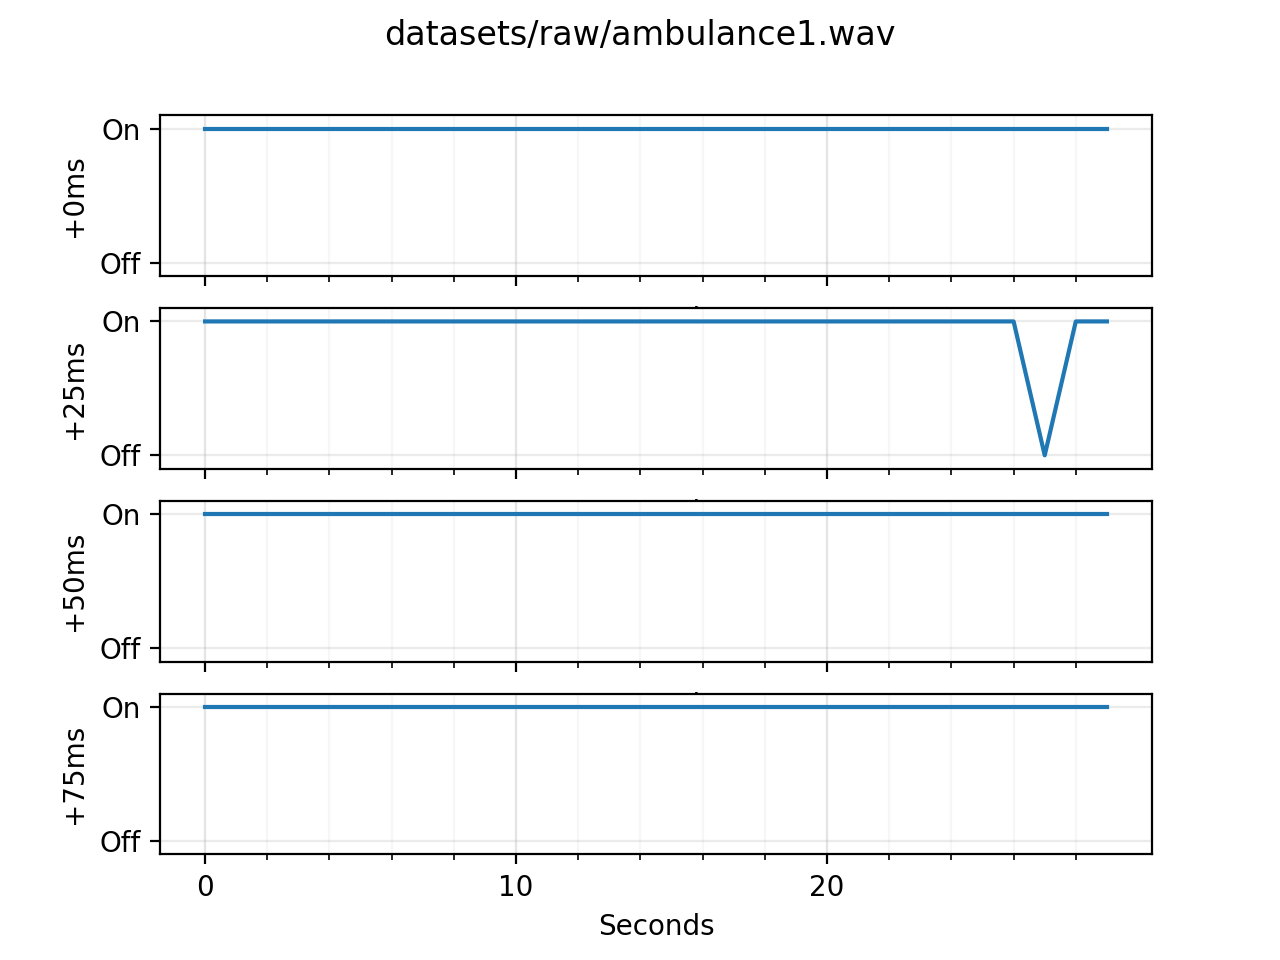
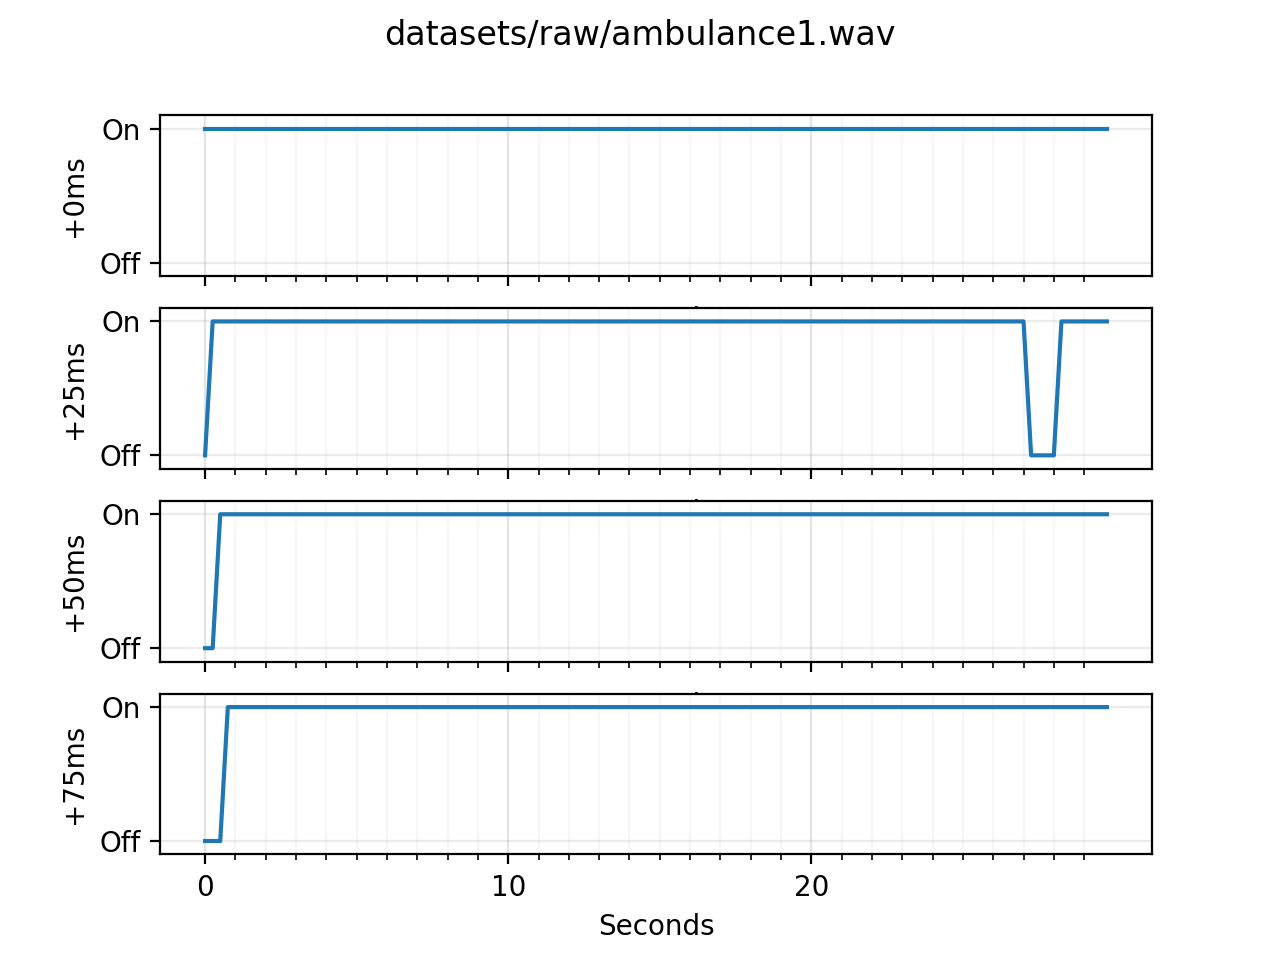
Rework the plots

diff --git a/viz-audio.py b/viz-audio.py
@@ -27,7 +27,7 @@ if __name__ == '__main__':
         filename, _ = path.splitext(path.basename(file))
         rate, sample = wavfile.read(file)
 
-        detection = np.zeros((4, sample.size//rate+1))
+        detection = np.zeros((4, (sample.size//rate+1)*4))
         for sec_idx, start in enumerate(range(0, sample.size, rate//4)):
             chunk = np.zeros(rate)
             chunk[0:min(sample.size-start, rate)] = sample[start:min(sample.size, start+rate)]
@@ -41,13 +41,13 @@ if __name__ == '__main__':
             else:
                 X = np.reshape(power_spectrogram, (1, -1))
 
-            detection[sec_idx%4, sec_idx//4] = classifier.predict(X)
+            detection[sec_idx%4, (sec_idx):(sec_idx)+4] = classifier.predict(X)
 
         # Plot!
         fig = plt.figure()
         plt.suptitle(file)
-        major_ticks = np.arange(0, detection.shape[1], 10)
-        minor_ticks = np.arange(0, detection.shape[1], 2)
+        major_ticks = np.arange(0, detection.shape[1], 40)
+        minor_ticks = np.arange(0, detection.shape[1], 4)
 
         for i in range(4):
             ax = fig.add_subplot(4, 1, i+1)
@@ -61,7 +61,9 @@ if __name__ == '__main__':
             ax.set_ylabel('+{}ms'.format(i*25))
             ax.yaxis.set_ticklabels(['Off', 'On'])
             if i%4 != 3:
-                ax.xaxis.set_ticklabels([])
+                ax.set_xticklabels([])
+            else:
+                ax.set_xticklabels([i for i in range(0, detection.shape[1], 10)])
             ax.set_ylim([-0.1, 1.1])
             ax.plot(detection[i])
 
